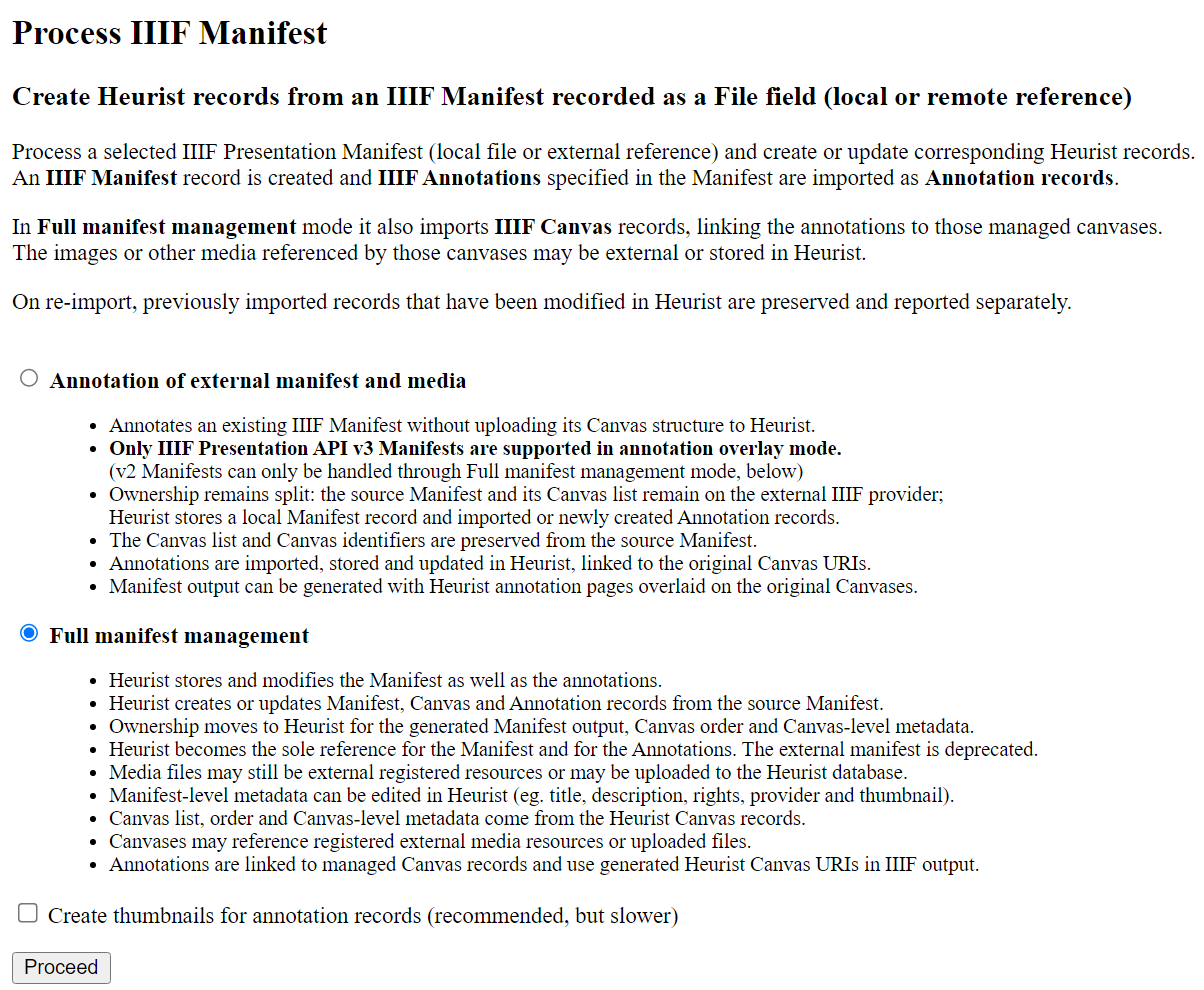
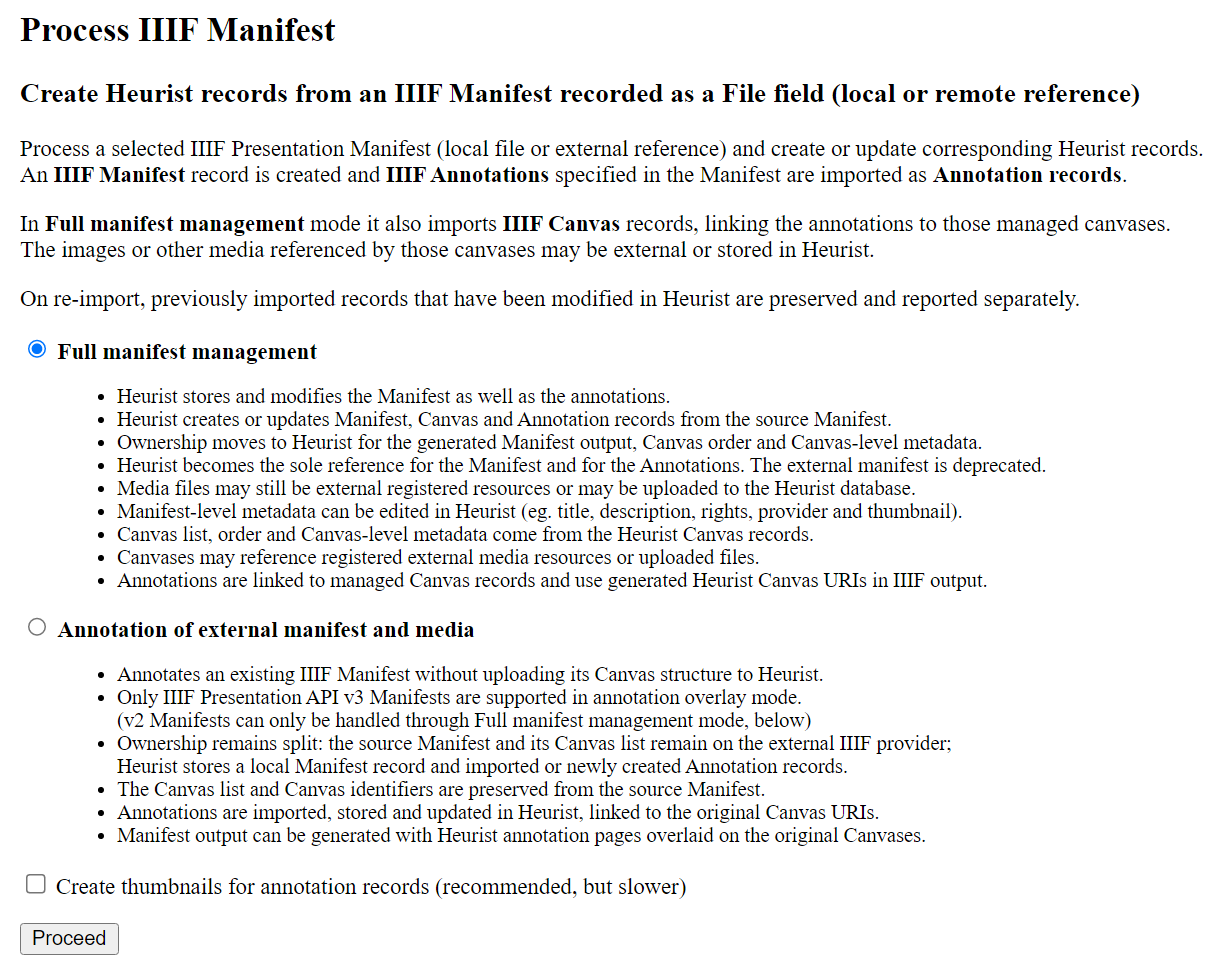
Fix minir merge issues

diff --git a/hclient/widgets/record/recordImportIIIF.html b/hclient/widgets/record/recordImportIIIF.html
@@ -30,21 +30,6 @@
     <div style="margin:1em 0">
         <div style="font-weight:bold;margin-bottom:0.35em">Processing / management level</div>
 
-        <label>
-            <input type="radio" name="import_level" value="overlay">
-            <b>Annotation overlay for external Manifest and media</b>
-        </label>
-        <div style="margin-left:1.8em;font-size:0.9em">
-            <ul>
-                <li>Use this mode to annotate an existing IIIF Manifest without importing its Canvas structure into Heurist.</li>
-                <li><b>Only IIIF Presentation API v3 Manifests are supported in annotation overlay mode.</b> For v2 Manifests, use Full manifest management.</li>
-                <li>Ownership remains split: the source Manifest and its Canvas list remain on the external IIIF provider or registered source file; Heurist owns only the imported or newly created Annotation records.</li>
-                <li>The Canvas list and Canvas identifiers are preserved from the source Manifest.</li>
-                <li>Annotations are imported, stored and updated in Heurist, linked to the original Canvas URIs.</li>
-                <li>No Heurist Manifest record is created. If a managed Manifest record already exists for this registered Manifest file, overlay mode is not available.</li>
-            </ul>
-        </div>
-
         <label style="display:block;margin-top:0.2em">
             <input type="radio" name="import_level" value="managed" checked>
             <b>Full manifest management</b>
@@ -62,6 +47,22 @@
                 <li>Annotations are linked to managed Canvas records and use generated Heurist Canvas URIs in IIIF output.</li>
             </ul>
         </div>
+        
+        <label>
+            <input type="radio" name="import_level" value="overlay">
+            <b>Annotation overlay for external Manifest and media</b>
+        </label>
+        <div style="margin-left:1.8em;font-size:0.9em">
+            <ul>
+                <li>Use this mode to annotate an existing IIIF Manifest without importing its Canvas structure into Heurist.</li>
+                <li><b>Only IIIF Presentation API v3 Manifests are supported in annotation overlay mode.</b> For v2 Manifests, use Full manifest management.</li>
+                <li>Ownership remains split: the source Manifest and its Canvas list remain on the external IIIF provider or registered source file; Heurist owns only the imported or newly created Annotation records.</li>
+                <li>The Canvas list and Canvas identifiers are preserved from the source Manifest.</li>
+                <li>Annotations are imported, stored and updated in Heurist, linked to the original Canvas URIs.</li>
+                <li>No Heurist Manifest record is created. If a managed Manifest record already exists for this registered Manifest file, overlay mode is not available.</li>
+            </ul>
+        </div>
+
     </div>
 
     <div style="margin:1em 0">

diff --git a/documentation/IIIF/Heurist_and_IIIF.md b/documentation/IIIF/Heurist_and_IIIF.md
@@ -4,11 +4,10 @@ This guide describes the IIIF features provided by Heurist for creating, importi
 
 Heurist supports two main workflows:
 
-1. **Use Heurist as an annotation layer over existing IIIF Manifests (Overlay mode).** The external provider keeps ownership of the source Manifest and Canvas identifiers. Heurist stores and publishes local annotations.
-   
-2. **Use Heurist to manage the Manifest (Management mode).** Heurist stores Manifest, Canvas and Annotation records and generates a IIIF Presentation API v3 Manifest from those records.
+1. **Use Heurist as an annotation layer over existing IIIF Manifests (annotation overlay mode).** The external provider keeps ownership of the source Manifest and Canvas identifiers. Heurist stores and publishes local annotations.
+2. **Use Heurist to manage the Manifest (full management mode).** Heurist stores Manifest, Canvas and Annotation records and generates a IIIF Presentation API v3 Manifest from those records.
 
-Heurist also provides a dynamic IIIF server for ordinary record sets and registered media files. as well as rendering of external IIIF files and manifests, ie. it can act as both client and server.
+Heurist also provides a dynamic IIIF server for ordinary record sets and registered media files, and can render external IIIF files and Manifests. In this sense it can act both as a IIIF client and as a IIIF server.
 
 ---
 
@@ -16,14 +15,13 @@ Heurist also provides a dynamic IIIF server for ordinary record sets and registe
 
 ### 1.1 Import the required definitions
 
-Before using the IIIF annotation and Manifest tools in an existing database, import the new definitions (from June 2026) from the `Heurist_Core_Definitions` database using **Design > Browse templates**. Heurist will prompt you to do this if you attempt to process Manifests without:
+Before using the IIIF annotation and Manifest tools in an existing database, import the new definitions from the `Heurist_Core_Definitions` database using **Design > Browse templates**. Heurist will prompt you to do this if you attempt to process Manifests without the required definitions.
 
-![[Pasted image 20260621163412.png]]
+![Browse templates prompt](Pasted%20image%2020260621163412.png)
 
 The new record types are in the **Documents** group. It is enough to select **IIIF Annotation**. The related record types **IIIF Manifest** and **IIIF Canvas** are downloaded alongside it.
 
-
-![[Pasted image 20260621153202.png]]
+![IIIF Annotation template selection](Pasted%20image%2020260621153202.png)
 
 The important record types are:
 
@@ -44,7 +42,7 @@ This field is not used by any current IIIF record type. Remove it before using t
 
 ### 1.3 Recommended checks before testing
 
-After importing definitions, check that the database contains the three IIIF record types above and that the browse templates function no longer shows and missing definitions in the Core definitions database.
+After importing definitions, check that the database contains the three IIIF record types above and that **Browse templates** no longer shows missing IIIF definitions in the Core definitions database.
 
 For testing, start with a small Manifest first. A large external Manifest may fail for reasons unrelated to Heurist logic, such as network timeouts, remote annotation-list delays, or unavailable image services.
 
@@ -57,21 +55,20 @@ For testing, start with a small Manifest first. A large external Manifest may fa
 A Manifest is the IIIF object that describes a digital object, such as a manuscript, book, image set or media collection. In Heurist, a Manifest may be:
 
 - a registered external Manifest file or URL;
-- an **IIIF Manifest** record;
-- an **IIIF Manifest** record managed by Heurist;
+- a managed **IIIF Manifest** record;
 - a dynamic Manifest generated from a record set or a single registered media file.
 
-Output from a Manifest managed by Heurist is generated as **IIIF Presentation API v3**.
+Managed Heurist Manifest output is generated as **IIIF Presentation API v3**. A registered IIIF Manifest file becomes managed only when an **IIIF Manifest** record references that file. If no such record exists, Heurist treats the registered Manifest file as an external/source Manifest and can use it as an annotation overlay target.
 
 ### 2.2 Canvas
 
 A Canvas represents one viewable unit in a Manifest, for example a page, image, video or audio item. In full management mode, Heurist stores each Canvas as an **IIIF Canvas** record. Each managed Canvas normally points to a registered file or registered external media URL.
 
-In annotation overlay mode, the Canvas records are not imported or managed by Heurist. Instead, annotations remain linked to the original Canvas URI from the source Manifest.
+In annotation overlay mode, Canvas records are not imported or managed by Heurist. Instead, annotations remain linked to the original Canvas URI from the source Manifest.
 
 ### 2.3 Annotation
 
-Annotations are stored as **IIIF Annotation** records. They may be created or edited in Mirador (mainly for the annotation area and initial text) or in the Heurist record editor (for any of the attributes attached to the annotation, which can be arbitrarily extended to allow searching and custm reporting within Heurist).
+Annotations are stored as **IIIF Annotation** records. They may be created or edited in Mirador, mainly for defining the annotation area and initial text, or in the Heurist record editor for annotation attributes, which can be extended to support searching and custom reporting within Heurist.
 
 Annotations store:
 
@@ -88,9 +85,7 @@ Annotations store:
 
 ## 3. Manual creation of a managed Manifest
 
-Fully managed Manifests are used when you want Heurist to own and generate the Manifest rather than only overlay annotations on an external Manifest.
-
-**See the following section 4 for processing of fully managed Manifests.**
+Manual creation is used when you want Heurist to own and generate the Manifest rather than only overlay annotations on an external Manifest.
 
 ### 3.1 Create the Manifest record
 
@@ -104,10 +99,10 @@ Create **IIIF Canvas** records and link them to the Manifest. Each Canvas may re
 
 - a locally uploaded registered file;
 - a registered external media URL;
-- an image served by an IIIF Image API;
+- an image served by a IIIF Image API;
 - other supported media such as audio or video where configured.
 
-The order of Canvas references on the Manifest record defines the order in the generated Manifest. The order can be changed within Heurist data entry by dragging the canvas references up and down.
+The order of Canvas references on the Manifest record defines the order in the generated Manifest. The order can be changed within Heurist data entry by dragging the Canvas references up and down.
 
 ### 3.3 Add or edit annotations in Mirador
 
@@ -143,35 +138,38 @@ For internal Mirador viewing, Heurist passes `omit_annotation_pages=1` to the ge
 
 A planned batch action will allow users to select one or several ordinary records that already have file fields and create Canvas records from those files. This is intended to make managed Manifest creation faster for large image sets.
 
-Until this is implemented, add Canvas records manually or process an existing Manifest in full management mode.
+Until this is implemented, add Canvas records manually or import/process an existing Manifest in full management mode.
 
 ---
 
-## 4. Process an existing IIIF Manifest
+## 4. Import or process an existing IIIF Manifest
 
-Use **Process IIIF Manifest** to create a Managed Manifest from:
+Use **Process IIIF Manifest** to work with a registered or uploaded IIIF Presentation Manifest. A Manifest can be registered as:
 
- - an IIIF Presentation Manifest which is referenced externally by a File field;
- - a JSon manifest which has been uploaded to Heurist as a File field. 
+- an external IIIF Presentation Manifest referenced by a File field;
+- a JSON Manifest uploaded to Heurist as a File field.
 
-![[Pasted image 20260621180809.png]]
- The process tool always creates or updates an **IIIF Manifest** record and creates **IIIF Annotation** records from any Annotations referenced in the Manifest. 
+![Process IIIF Manifest dialog](Pasted%20image%2020260621175823.png)
 
-In full management mode, Process IIIF Manifest also creates **IIIF Canvas** records, in other words the Canvases are stored within Heurist rather than referenced externally (the image or other media can be stored in Heurist or referenced externally). Media should be stored in Heurist where the referenced resources are not on a stable long-term repository such as Gallica, to ensure sustainability.
+The default mode is **Full manifest management**, which creates or updates an **IIIF Manifest** record, imports **IIIF Canvas** records and imports available **IIIF Annotation** records.
+
+**Annotation overlay** is different: it imports annotations only. It does not create an **IIIF Manifest** record. The registered Manifest file remains the source Manifest and Heurist stores local annotations against the original Canvas URIs.
 
 ### 4.1 Annotation overlay mode
 
-Use **Annotation overlay** when the external Manifest remains the authoritative source for Canvas structure. In this mode:
+Use **Annotation overlay** when the external Manifest remains the authoritative source for Canvas structure.
 
-- Only **IIIF Presentation API v3 Manifests** are supported;
-- The source Manifest and its Canvas list remain on the external provider;
-- Heurist creates or updates a local Manifest record for management and provenance;
+In this mode:
+
+- only **IIIF Presentation API v3 Manifests** are supported;
+- the source Manifest and its Canvas list remain owned by the external provider;
+- Heurist does **not** create an **IIIF Manifest** record;
 - Canvas identifiers are preserved from the source Manifest;
-- Annotations are imported into Heurist and linked to the original Canvas URIs;
-- Heurist can output a v3 overlay Manifest by replacing source `Canvas.annotations` with Heurist AnnotationPage links;
-- Local Heurist annotations are preserved on re-processing when they have been edited locally.
+- annotations are imported into Heurist and linked to the original Canvas URIs;
+- when `/api/{db}/iiif/manifest/{obfuscatedFileID}` is requested, Heurist can output a v3 overlay Manifest by replacing source `Canvas.annotations` with Heurist AnnotationPage links;
+- local Heurist annotations are preserved on re-import/re-processing when they have been edited locally.
 
-***Do not use this mode for IIIF Presentation API v2 Manifests***. For v2 source Manifests, use full management mode.
+Do not use this mode for IIIF Presentation API v2 Manifests. For v2 source Manifests, use full management mode. If a managed **IIIF Manifest** record already references the selected registered Manifest file, annotation overlay mode is not available because the file is already under Heurist management.
 
 ### 4.2 Full manifest management mode
 
@@ -180,31 +178,33 @@ Use **Full manifest management** when Heurist should manage the Manifest structu
 In this mode:
 
 - Heurist creates or updates Manifest, Canvas and Annotation records;
-- Heurist stores the Manifest, Canvas order and Canvas metadata;
-- Media may still be external registered resources or local uploads;
+- the existence of the **IIIF Manifest** record is what marks the registered Manifest file as managed;
+- Heurist owns the generated Manifest output, Canvas order and Canvas metadata;
+- media may still be external registered resources or local uploads;
+- media should be stored in Heurist where referenced resources are not held by a stable long-term repository or institutional service;
 - Manifest-level metadata can be edited in Heurist;
 - Canvas order comes from the Canvas references stored on the Manifest record;
-- Annotations are linked to managed Canvas records;
-- Generated IIIF output uses Heurist Canvas API URLs.
+- annotations are linked to managed Canvas records;
+- generated IIIF output uses Heurist Canvas API URLs.
 
-This is the preferred mode for IIIF v2 source Manifests, because the overlay workflow is v3-only, or wherever the source of the Manifests is not a long-term stable repository or institutional service.
+This is the preferred mode for IIIF v2 source Manifests, because the overlay workflow is v3-only.
 
-### 4.3 Re-processing behaviour
+### 4.3 Re-import / re-processing behaviour
 
-On re-processing, Heurist attempts to update processed records while preserving local work. Records that have been changed in Heurist or Mirador are preserved by default and reported separately as preserved local records.
+On re-import, Heurist attempts to update imported records while preserving local work. Records that have been changed in Heurist or Mirador are preserved by default and reported separately as preserved local records.
 
-The processing report includes:
+The report includes:
 
-- Manifest record ID;
-- Total Canvases found;
+- managed Manifest record ID, or `not created` for annotation overlay;
+- total Canvases found;
 - Canvas records added, updated, unchanged or preserved;
-- Total annotations found;
-- Annotation records added, updated, unchanged or preserved;
-- Issues encountered during processing.
+- total annotations found;
+- annotation records added, updated, unchanged or preserved;
+- issues encountered during import/processing.
 
 ### 4.4 Thumbnails
 
-The processing tool can create thumbnails for annotation records. This is useful for browsing annotations in Heurist, but it is slower because it may need to access remote images or render selected regions.
+The import tool can create thumbnails for annotation records. This is useful for browsing annotations in Heurist, but it is slower because it may need to access remote images or render selected regions.
 
 ---
 
@@ -220,7 +220,7 @@ Typical uses:
 
 - annotate a single image before adding it to a larger Manifest;
 - annotate a registered external IIIF image;
-- test annotation behaviour on one file before processing or building a large Manifest.
+- test annotation behaviour on one file before importing, processing or building a large Manifest.
 
 ---
 
@@ -232,6 +232,8 @@ Heurist provides a Mirador Viewer for:
 - a registered external Manifest file;
 - a single registered media file;
 - a dynamic Manifest generated from a query or selected record set.
+
+Registered Manifest files are opened through `/api/{db}/iiif/manifest/{obfuscatedFileID}`. If an **IIIF Manifest** record references the file, the API returns the managed Manifest generated from Heurist records. Otherwise it returns the source Manifest: v2 sources are returned as-is, while v3 sources can be returned with Heurist annotation-page links overlaid.
 
 The viewer supports two annotation lookup scopes:
 
@@ -294,7 +296,7 @@ Useful for:
 
 - publishing a set of related Manifests;
 - opening several Manifests together in Mirador;
-- grouping processed or external Manifests without merging their Canvas structures.
+- grouping imported, processed or external Manifests without merging their Canvas structures.
 
 ### 7.6 Mixed record set: registered Manifests and media files
 
@@ -302,9 +304,9 @@ If a v3 dynamic export contains both registered Manifests and ordinary media Can
 
 Useful for mixed search results where some records already contain IIIF Manifests and others contain image/audio/video files.
 
-### 7.7 IIIF v2 export compatibility
+### 7.7 IIIF v2 output policy
 
-Dynamic export can still generate IIIF Presentation API v2 output where requested, but the current Manifest management and overlay workflows are centred on v3 output. Use v3 for new work unless a legacy consumer specifically requires v2.
+Heurist no longer generates IIIF Presentation API v2 output. Dynamic export and managed Manifest output are v3-only. Heurist can still import v2 and hybrid v2 source Manifests in **Full manifest management** mode and then publish them as generated v3 Manifests.
 
 ---
 
@@ -315,18 +317,18 @@ Dynamic export can still generate IIIF Presentation API v2 output where requeste
 1. Register or upload the v3 Manifest JSON.
 2. Open **Process IIIF Manifest**.
 3. Select **Annotation overlay**.
-4. Process annotations.
-5. Open the created Manifest record in Mirador.
+4. Import/process annotations.
+5. Open the registered Manifest file in Mirador. The viewer uses `/api/{db}/iiif/manifest/{obfuscatedFileID}` and the annotation endpoint.
 6. Add or edit annotations.
-7. Publish the Heurist overlay Manifest when external viewers need Heurist AnnotationPage links.
+7. Use the same API URL when external viewers need the v3 source Manifest with Heurist AnnotationPage links.
 
-### 8.2 Process a v2 Manifest with many Canvases and annotations
+### 8.2 Import a v2 Manifest with many Canvases and annotations
 
 1. Register or upload the v2 Manifest JSON.
 2. Open **Process IIIF Manifest**.
 3. Select **Full manifest management**.
-4. Process Canvases and annotations.
-5. Inspect the processing report for failed remote annotation lists or unavailable image resources.
+4. Import/process Canvases and annotations.
+5. Inspect the report for failed remote annotation lists or unavailable image resources.
 6. Open the managed Manifest in Mirador.
 
 If the v2 Manifest is very large, test first with a trimmed Manifest containing a few Canvases.
@@ -343,9 +345,9 @@ If the v2 Manifest is very large, test first with a trimmed Manifest containing 
 
 ## 9. Troubleshooting
 
-### The process function says required definitions are missing
+### The import widget says required definitions are missing
 
-Import **IIIF Annotation** record type from `Heurist_Core_Definitions`. The related Manifest and Canvas record types should be imported with it.
+Import **IIIF Annotation** from `Heurist_Core_Definitions`. The related Manifest and Canvas record types should be imported with it.
 
 ### The database contains an old field named “IIIF Anotation 2”
 
@@ -353,13 +355,17 @@ Remove the obsolete duplicate field with local ID `1106` and concept code `2-109
 
 ### Overlay mode rejects a v2 Manifest
 
-This is expected. Annotation overlay mode is v3-only because it works by replacing or adding v3 `Canvas.annotations` AnnotationPage links. Import v2 Manifests in **Full manifest management** mode.
+This is expected. Annotation overlay mode is v3-only because it stores annotations against original v3 Canvas URIs and can publish v3 `Canvas.annotations` AnnotationPage links. Import v2 Manifests in **Full manifest management** mode.
+
+### Overlay mode is disabled for a selected registered Manifest file
+
+This means an **IIIF Manifest** record already references the selected registered Manifest file. That file is already managed by Heurist, so use **Full manifest management** mode.
 
 ### Mirador shows duplicate annotations
 
 Use the internal Heurist Mirador viewer, which passes `omit_annotation_pages=1` for generated Manifest URLs where required. This avoids loading the same annotations both from Manifest `Canvas.annotations` and from Mirador's annotation endpoint.
 
-### Processing fails on a very large Manifest
+### Import fails on a very large Manifest
 
 Try a small trimmed Manifest first. Failures may be caused by remote annotation-list access, timeouts, malformed source JSON, unavailable image services, or network interruptions.
 
@@ -370,11 +376,11 @@ Try a small trimmed Manifest first. Failures may be caused by remote annotation-
 | Feature | Annotation overlay | Full manifest management |
 | --- | --- | --- |
 | Supported source Manifest version | v3 only | v2 and v3 |
-| Source Manifest ownership | External provider | Imported into Heurist management |
-| Generated Manifest output | Heurist overlay v3 output | Heurist managed v3 output |
+| Source Manifest ownership | External provider / registered file | Imported into Heurist management |
+| Generated Manifest output | Source v3 Manifest with Heurist AnnotationPage links when requested through the IIIF API | Heurist managed v3 output |
 | Canvas list ownership | External provider | Heurist |
 | Canvas identifiers | Original source Canvas URIs | Heurist Canvas API URLs |
 | Canvas records created | No | Yes |
 | Annotation records created | Yes | Yes |
-| Manifest metadata editable in Heurist | Local management/provenance record only | Yes, used in generated output |
-| Best use | Add Heurist annotations to an existing v3 Manifest | Build or take over a Manifest in Heurist |
+| Manifest metadata editable in Heurist | No managed Manifest record is created | Yes, used in generated output |
+| Best use | Add Heurist annotations to an existing v3 Manifest without creating a Manifest record | Build or take over a Manifest in Heurist |
